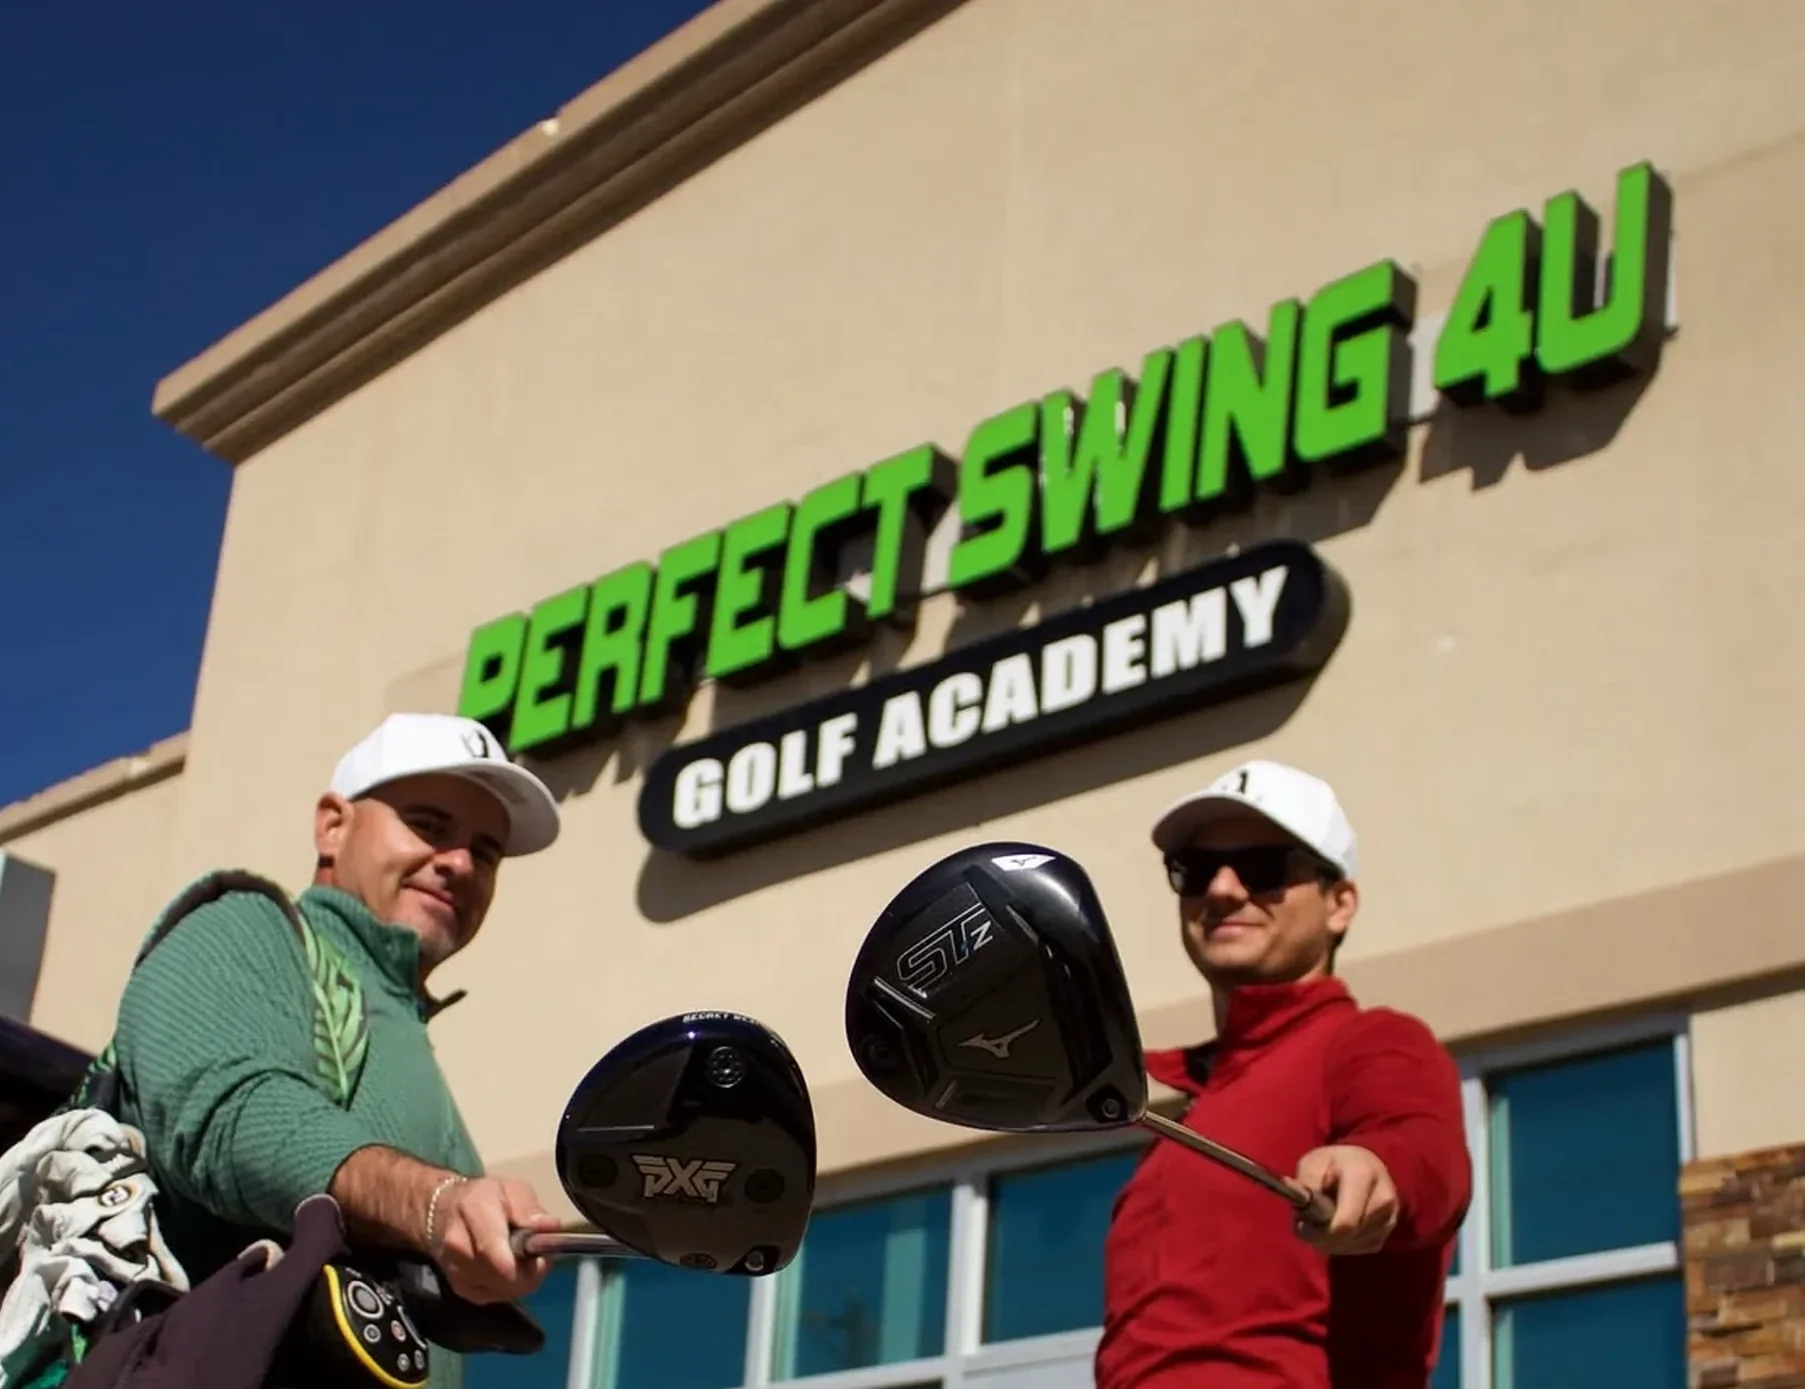
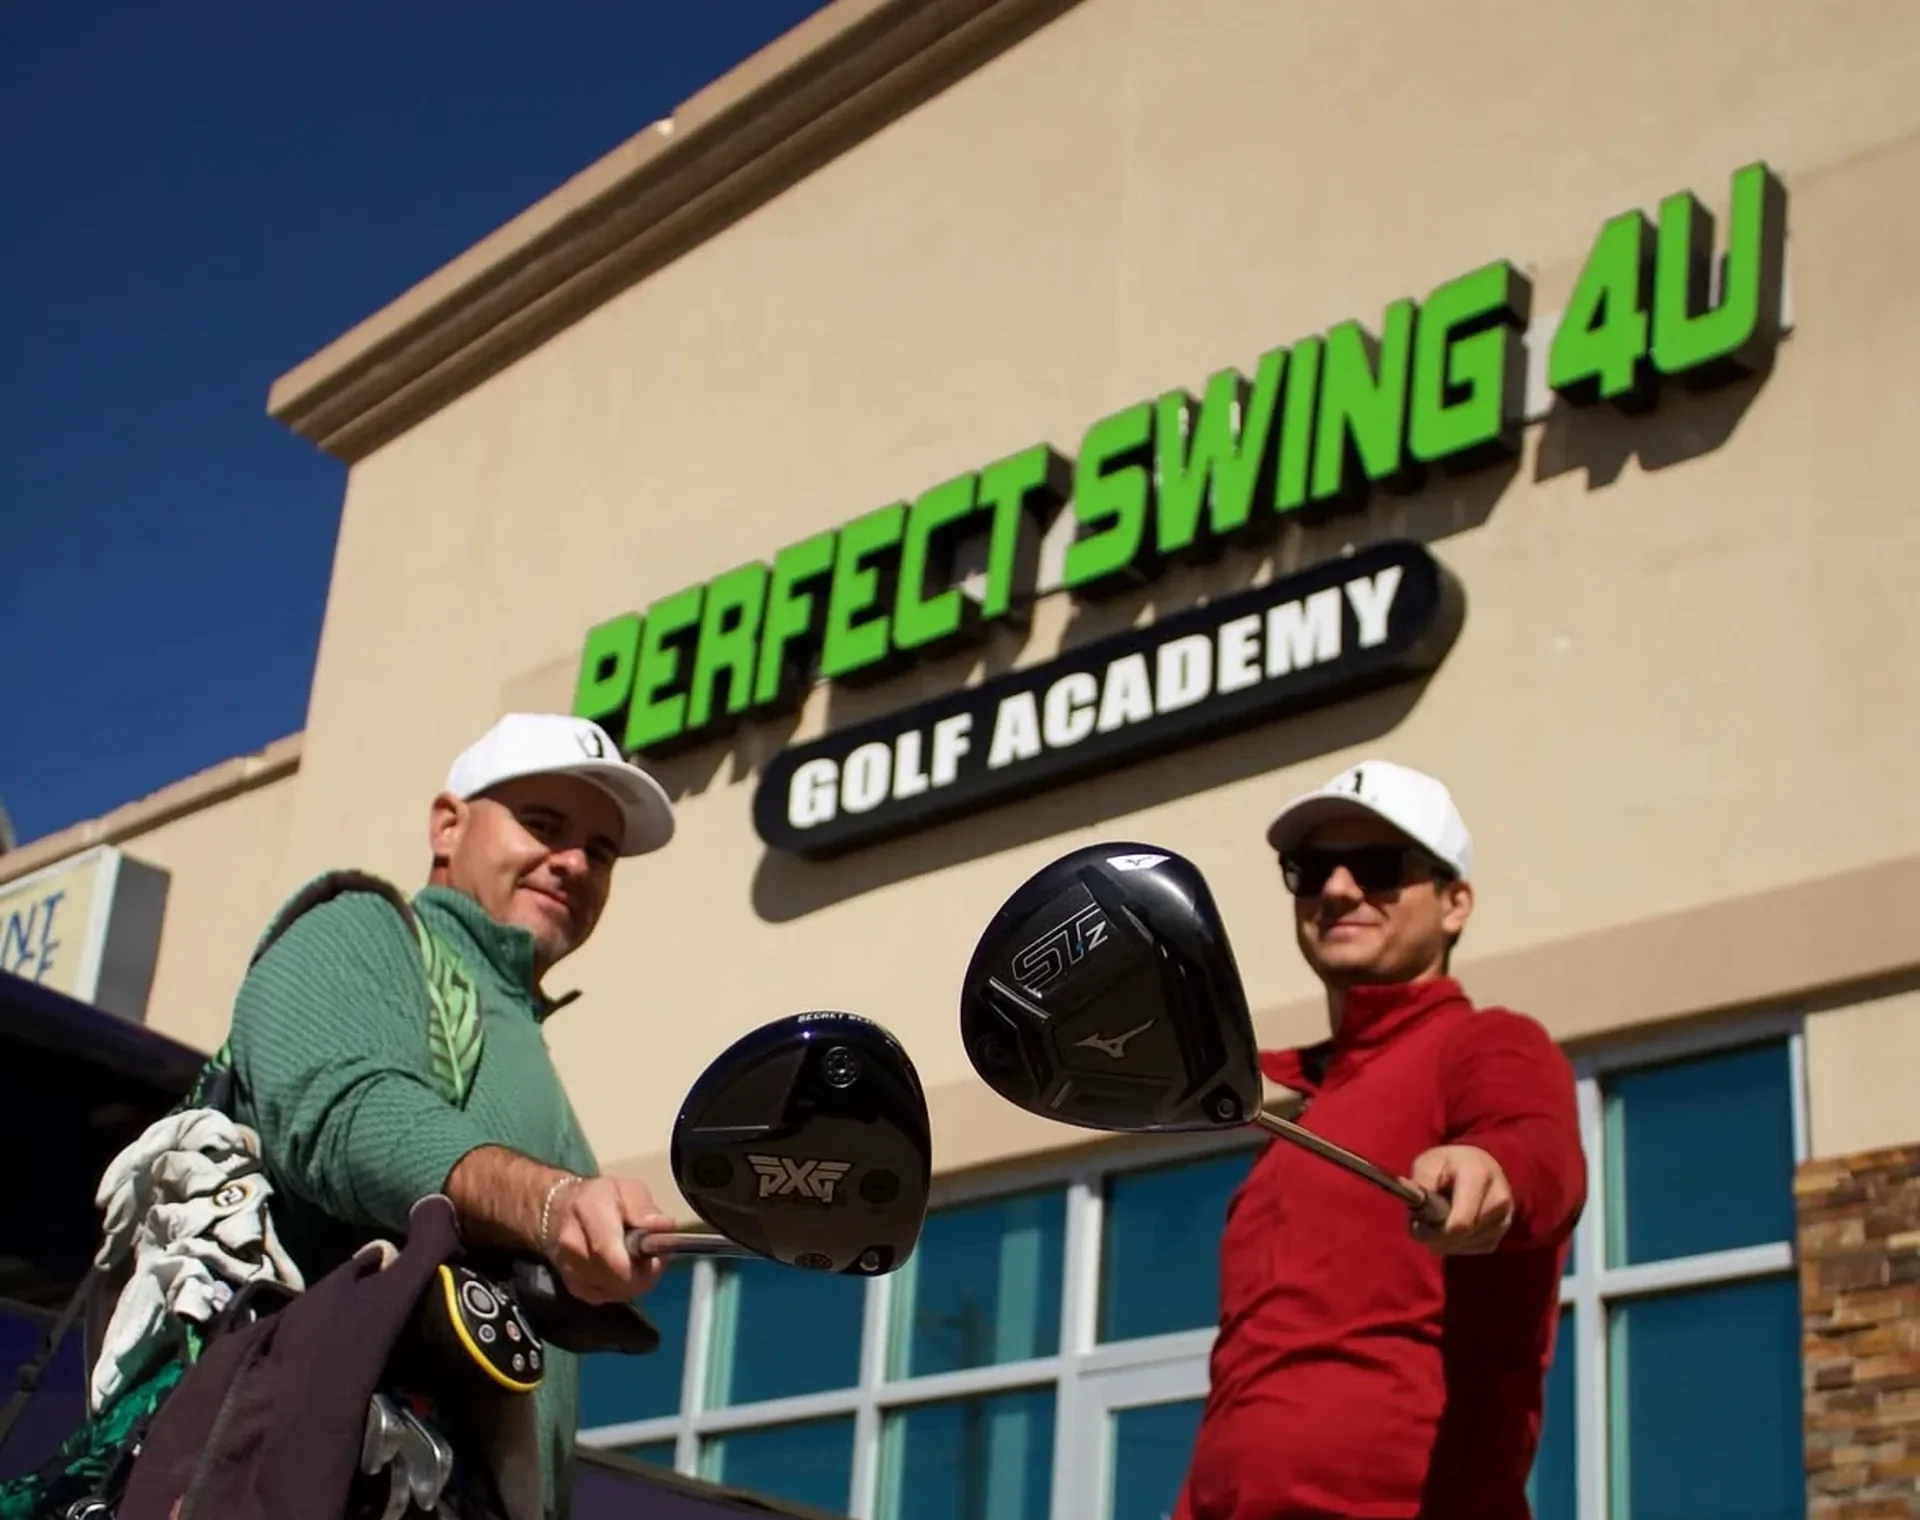
Fix sign crops and remaining Spanish leftovers
Match hero/visit frames to storefront aspect so PERFECT SWING 4U
and GOLF ACADEMY stay readable; drop unused hero-coaches.webp.

diff --git a/js/main.js b/js/main.js
@@ -116,7 +116,7 @@
       heroMeta: "5864 N Mesa St, Suite A · Lun–Vie 10am–7pm · Cerrado fines de semana",
       aboutTitle: "El calor de El Paso queda afuera. Tu hora queda en el mat.",
       aboutCopy:
-        "Perfect Swing 4U es una academia bajo techo en N Mesa en Crown Point, junto a Another Broken Egg Cafe. Clases de una hora completa, ajuste de palos y pro shop — sin tee times ni demoras por clima. Sin cita previa bienvenidos si hay entrenador libre. Hay palos si no traes set.",
+        "Perfect Swing 4U es una academia bajo techo en N Mesa en Crown Point, junto a Another Broken Egg Cafe. Clases de una hora completa, ajuste de palos y pro shop — sin tee times ni demoras por clima. Aceptamos clientes sin cita si hay entrenador libre. Hay palos si no traes set.",
       processTitle: "Cómo corre una clase",
       processSub: "Reserva en Square. Llega. Sal con una cosa clara para practicar.",
       step1t: "Reserva la hora",
@@ -124,7 +124,7 @@
         "Reserva en línea en Square, llama al (915) 449-3613, o entra sin cita previa si hay entrenador libre. Reprograma con 24 horas de aviso; si faltas sin aviso pierdes el 50%.",
       step2t: "Mide la pelota",
       step2d:
-        "FlightScope registra velocidad de la pelota, lanzamiento, efecto y distancia de vuelo. El video multiángulo muestra de frente y desde atrás. Capto putting usa un sensor en el putter para path, face y tempo.",
+        "FlightScope registra velocidad de la pelota, lanzamiento, efecto y distancia de vuelo. El video multiángulo muestra de frente y desde atrás. Capto putting usa un sensor en el putter para trayectoria, cara y ritmo.",
       step3t: "Lleva el cambio afuera",
       step3d:
         "Tu entrenador elige uno o dos ajustes que importan para tu swing — no una lista larga. Drills que puedes repetir en el range o en el campo.",
@@ -158,11 +158,11 @@
       tech2t: "Video multiángulo",
       tech2m: "De frente · desde atrás",
       tech2d:
-        "Dos cámaras del mismo swing. Pausa el frame, nombra el movimiento y compara el siguiente tiro para ver lo que ve el entrenador — no un tip vago de “quédate abajo.”",
+        "Dos cámaras del mismo swing. Pausa el cuadro, nombra el movimiento y compara el siguiente tiro para ver lo que ve el entrenador — no un consejo vago de “quédate abajo.”",
       tech3t: "Putting Capto",
       tech3m: "Sensor en el putter · análisis de 30 min",
       tech3d:
-        "Registra path, ángulo de face y tempo en el stroke. Yaser está certificado en Capto Putting; el análisis de putting de $75 se basa en este sensor.",
+        "Registra trayectoria, ángulo de cara y ritmo en el stroke. Yaser está certificado en Capto Putting; el análisis de putting de $75 se basa en este sensor.",
       tech4t: "Ajuste de palos",
       tech4m: "Driver · hierros · bolsa completa",
       tech4d:

diff --git a/css/styles.css b/css/styles.css
@@ -399,9 +399,11 @@ a.btn-gold:hover,
 
 @media (min-width: 900px) {
   .hero-grid {
-    grid-template-columns: 0.95fr 1.05fr;
+    grid-template-columns: 0.9fr 1.1fr;
+    align-items: center;
     min-height: calc(100svh - var(--header-h));
-    max-height: 54rem;
+    max-height: 52rem;
+    gap: 0;
   }
 }
 
@@ -480,36 +482,17 @@ a.btn-gold:hover,
 
 .hero-photo {
   position: relative;
-  min-height: 24rem;
+  /* Near the hero-storefront.webp ratio (~1920×1520) so cover won’t clip the sign */
+  aspect-ratio: 5 / 4;
   background: var(--sand);
   overflow: hidden;
-}
-
-@media (min-width: 900px) {
-  .hero-photo {
-    min-height: 100%;
-  }
 }
 
 .hero-photo img {
   width: 100%;
   height: 100%;
   object-fit: cover;
-  /* Favor upper facade; cropped + slight scale hides any bottom-edge artifacts */
-  object-position: 52% 8%;
-  min-height: 24rem;
-  transform: scale(1.05);
-  transform-origin: 50% 0%;
-}
-
-@media (min-width: 900px) {
-  .hero-photo img {
-    position: absolute;
-    inset: 0;
-    min-height: 0;
-    width: 100%;
-    height: 100%;
-  }
+  object-position: center 28%;
 }
 
 /* Sections */
@@ -981,7 +964,8 @@ a.btn-gold:hover,
 }
 
 .visit-photo {
-  aspect-ratio: 16 / 9;
+  /* Match storefront-sign.webp (~1920×765) so lettering isn’t cover-cropped */
+  aspect-ratio: 2.51 / 1;
   overflow: hidden;
   border-radius: var(--radius);
   background: var(--sand);
@@ -990,8 +974,9 @@ a.btn-gold:hover,
 .visit-photo img {
   width: 100%;
   height: 100%;
-  object-fit: cover;
-  object-position: center 40%;
+  object-fit: contain;
+  object-position: center center;
+  background: #c4b8a4;
 }
 
 .visit-grid {

diff --git a/index.html b/index.html
@@ -117,7 +117,7 @@
           <p class="hero-meta" data-i18n="heroMeta">5864 N Mesa St, Suite A · Mon–Fri 10am–7pm · Closed weekends</p>
         </div>
         <div class="hero-photo">
-          <img src="assets/hero-storefront.webp" width="960" height="890" alt="Perfect Swing 4U Golf Academy storefront on N Mesa with coaches out front" fetchpriority="high">
+          <img src="assets/hero-storefront.webp" width="960" height="760" alt="Perfect Swing 4U Golf Academy storefront on N Mesa with coaches out front" fetchpriority="high">
         </div>
       </div>
     </section>
@@ -351,7 +351,7 @@
         <p class="sub" data-i18n="visitSub">On N Mesa at Crown Point, next to Another Broken Egg Cafe.</p>
         <div class="visit-layout">
           <div class="visit-photo">
-            <img src="assets/storefront-sign.webp" width="945" height="312" alt="PERFECT SWING 4U GOLF ACADEMY storefront sign" loading="lazy">
+            <img src="assets/storefront-sign.webp" width="960" height="355" alt="PERFECT SWING 4U GOLF ACADEMY storefront sign" loading="lazy">
           </div>
           <div class="visit-grid">
             <div class="visit-card">
